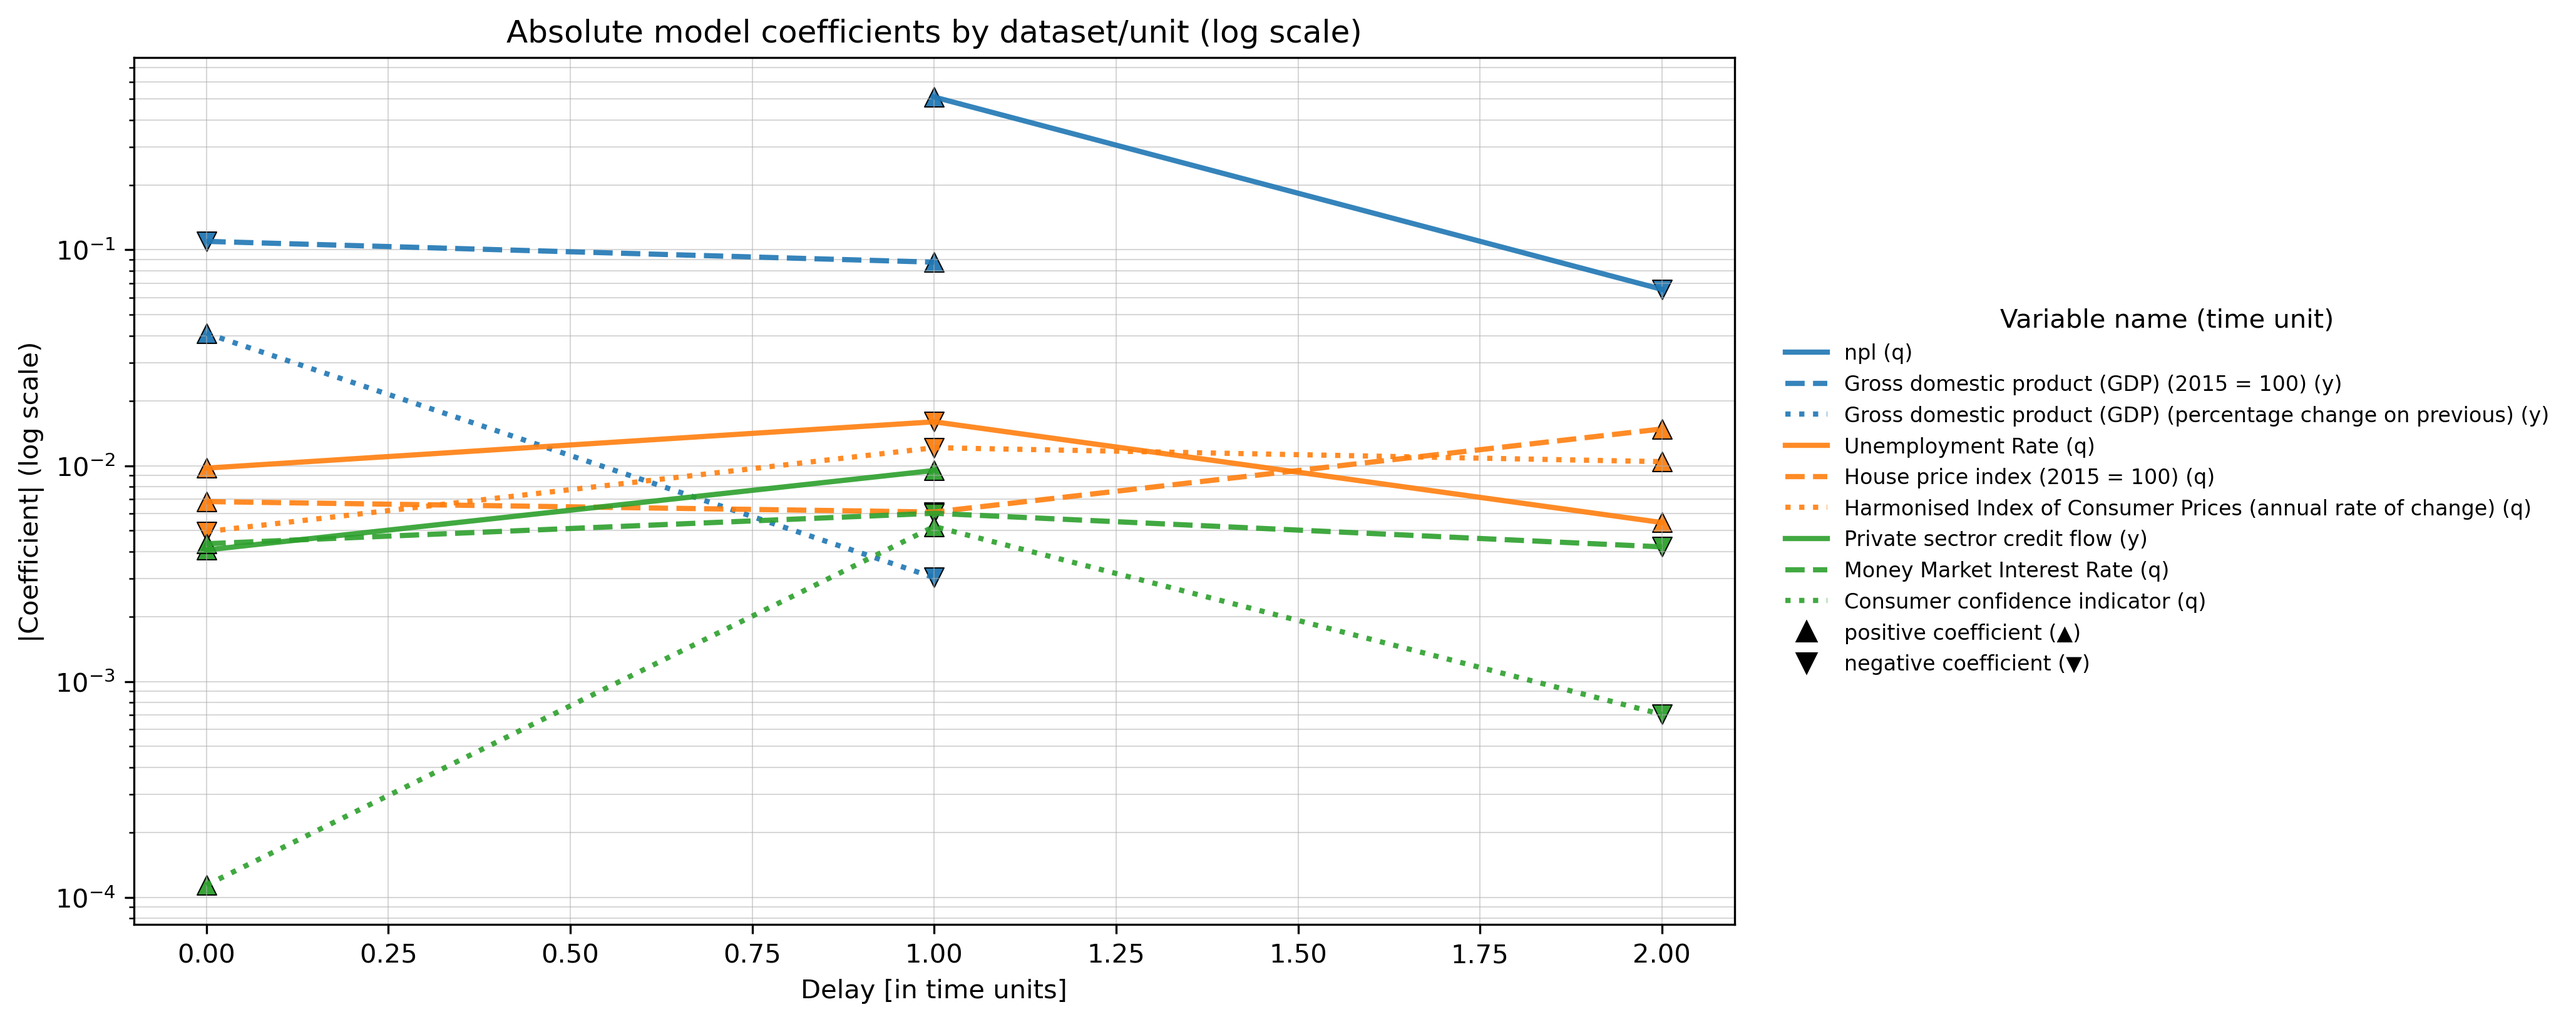
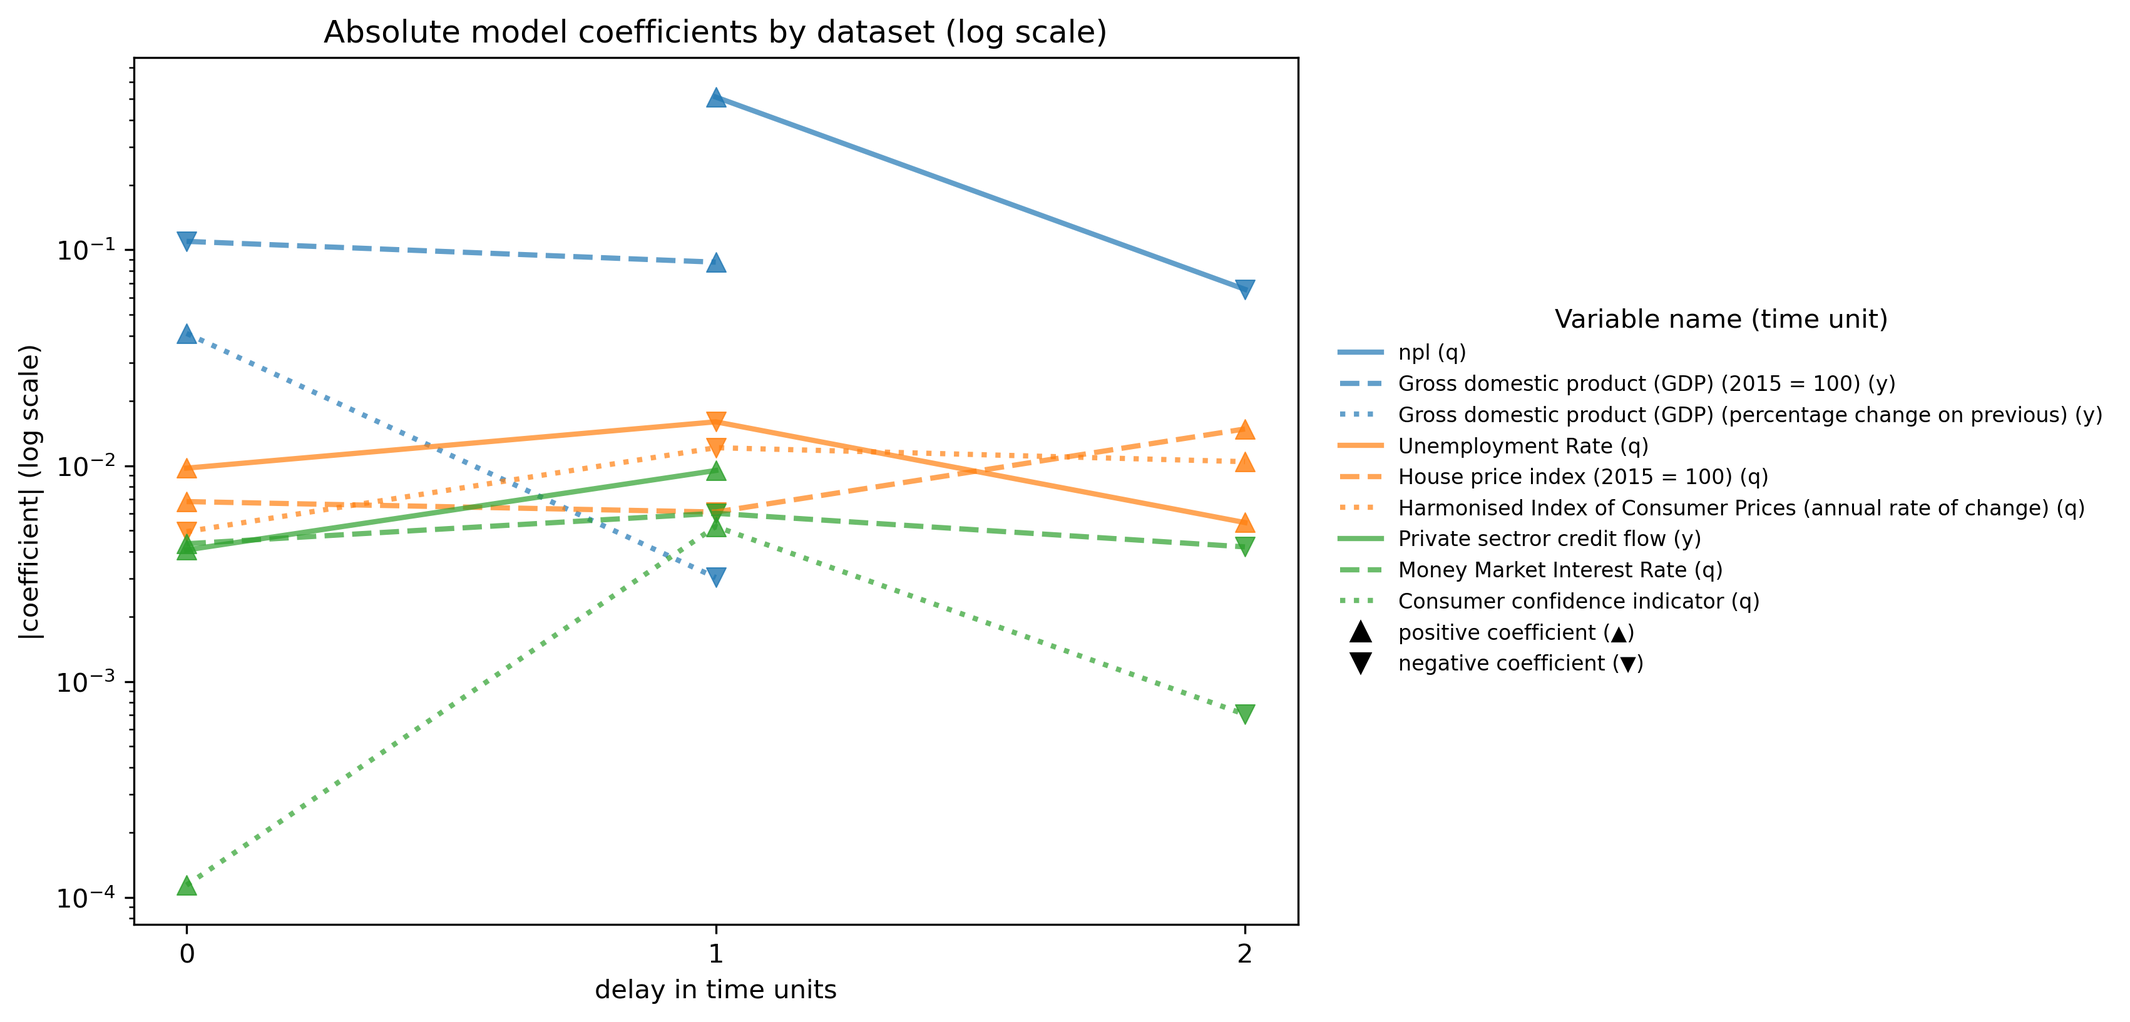
Clean plots

diff --git a/TimeSeriesModelling/TimeSeriesModelling_cleaned.py b/TimeSeriesModelling/TimeSeriesModelling_cleaned.py
@@ -5,6 +5,7 @@ import re
 import os
 import matplotlib.pyplot as plt
 import matplotlib.dates as mdates
+import matplotlib.cm as cm
 from matplotlib.ticker import MaxNLocator
 from matplotlib.lines import Line2D
 from datetime import datetime, date
@@ -22,34 +23,26 @@ except NameError:
     # Fallback for notebooks or interactive mode
     BASE_DIR = os.getcwd()
 
-eurostat_datasets = {'Unemployment Rate' :
+eurostat_datasets = {'Gross domestic product (GDP) (2015 = 100)' :
+{'dataset_code' : 'nama_10_gdp',
+'frequency' : 'a',
+'url' : 'https://ec.europa.eu/eurostat/api/dissemination/sdmx/3.0/data/dataflow/ESTAT/nama_10_gdp/1.0/*.*.*.*?c[freq]=A&c[unit]=CLV_I15&c[na_item]=B1GQ&c[geo]=SI&c[TIME_PERIOD]=2023,2022,2021,2020,2019,2018,2017,2016,2015,2014,2013,2012,2011,2010,2009,2008,2007,2006&compress=false&format=csvdata&formatVersion=2.0&lang=en&labels=name',
+'unit_column_name' : 'Unit of measure',
+'fill_missing' : True},
+
+'Gross domestic product (GDP) (percentage change on previous)' :    
+{'dataset_code' : 'nama_10_gdp',
+'frequency' : 'a',
+'url' : 'https://ec.europa.eu/eurostat/api/dissemination/sdmx/3.0/data/dataflow/ESTAT/nama_10_gdp/1.0/*.*.*.*?c[freq]=A&c[unit]=CLV_PCH_PRE&c[na_item]=B1GQ&c[geo]=SI&c[TIME_PERIOD]=2023,2022,2021,2020,2019,2018,2017,2016,2015,2014,2013,2012,2011,2010,2009,2008,2007,2006&compress=false&format=csvdata&formatVersion=2.0&lang=en&labels=name',
+'unit_column_name' : 'Unit of measure',
+'fill_missing' : True},
+
+ 'Unemployment Rate' :
  {'dataset_code' : 'une_rt_q',
  'frequency' : 'q',
  'url' : 'https://ec.europa.eu/eurostat/api/dissemination/sdmx/3.0/data/dataflow/ESTAT/une_rt_q/1.0/*.*.*.*.*.*?c[freq]=Q&c[s_adj]=SA&c[age]=Y20-64&c[unit]=PC_ACT&c[sex]=T&c[geo]=SI&c[TIME_PERIOD]=ge:2006-Q1+le:2023-Q4&compress=false&format=csvdata&formatVersion=2.0&lang=en&labels=name',
  'unit_column_name' : 'Unit of measure',
  'fill_missing' : False},
-                     
- 'Gross domestic product (GDP) (2015 = 100)' :
- {'dataset_code' : 'nama_10_gdp',
- 'frequency' : 'a',
- 'url' : 'https://ec.europa.eu/eurostat/api/dissemination/sdmx/3.0/data/dataflow/ESTAT/nama_10_gdp/1.0/*.*.*.*?c[freq]=A&c[unit]=CLV_I15&c[na_item]=B1GQ&c[geo]=SI&c[TIME_PERIOD]=2023,2022,2021,2020,2019,2018,2017,2016,2015,2014,2013,2012,2011,2010,2009,2008,2007,2006&compress=false&format=csvdata&formatVersion=2.0&lang=en&labels=name',
- 'unit_column_name' : 'Unit of measure',
- 'fill_missing' : True},
-
- 'Gross domestic product (GDP) (percentage change on previous)' :    
- {'dataset_code' : 'nama_10_gdp',
- 'frequency' : 'a',
- 'url' : 'https://ec.europa.eu/eurostat/api/dissemination/sdmx/3.0/data/dataflow/ESTAT/nama_10_gdp/1.0/*.*.*.*?c[freq]=A&c[unit]=CLV_PCH_PRE&c[na_item]=B1GQ&c[geo]=SI&c[TIME_PERIOD]=2023,2022,2021,2020,2019,2018,2017,2016,2015,2014,2013,2012,2011,2010,2009,2008,2007,2006&compress=false&format=csvdata&formatVersion=2.0&lang=en&labels=name',
- 'unit_column_name' : 'Unit of measure',
- 'fill_missing' : True},
-
- 'Money Market Interest Rate' : 
- {'dataset_code' : 'irt_st_m',
- 'frequency' : 'm',
- 'url' : 'https://ec.europa.eu/eurostat/api/dissemination/sdmx/3.0/data/dataflow/ESTAT/irt_st_m/1.0/*.*.*?c[freq]=M&c[int_rt]=IRT_M12&c[geo]=EA&c[TIME_PERIOD]=2023-12,2023-11,2023-10,2023-09,2023-08,2023-07,2023-06,2023-05,2023-04,2023-03,2023-02,2023-01,2022-12,2022-11,2022-10,2022-09,2022-08,2022-07,2022-06,2022-05,2022-04,2022-03,2022-02,2022-01,2021-12,2021-11,2021-10,2021-09,2021-08,2021-07,2021-06,2021-05,2021-04,2021-03,2021-02,2021-01,2020-12,2020-11,2020-10,2020-09,2020-08,2020-07,2020-06,2020-05,2020-04,2020-03,2020-02,2020-01,2019-12,2019-11,2019-10,2019-09,2019-08,2019-07,2019-06,2019-05,2019-04,2019-03,2019-02,2019-01,2018-12,2018-11,2018-10,2018-09,2018-08,2018-07,2018-06,2018-05,2018-04,2018-03,2018-02,2018-01,2017-12,2017-11,2017-10,2017-09,2017-08,2017-07,2017-06,2017-05,2017-04,2017-03,2017-02,2017-01,2016-12,2016-11,2016-10,2016-09,2016-08,2016-07,2016-06,2016-05,2016-04,2016-03,2016-02,2016-01,2015-12,2015-11,2015-10,2015-09,2015-08,2015-07,2015-06,2015-05,2015-04,2015-03,2015-02,2015-01,2014-12,2014-11,2014-10,2014-09,2014-08,2014-07,2014-06,2014-05,2014-04,2014-03,2014-02,2014-01,2013-12,2013-11,2013-10,2013-09,2013-08,2013-07,2013-06,2013-05,2013-04,2013-03,2013-02,2013-01,2012-12,2012-11,2012-10,2012-09,2012-08,2012-07,2012-06,2012-05,2012-04,2012-03,2012-02,2012-01,2011-12,2011-11,2011-10,2011-09,2011-08,2011-07,2011-06,2011-05,2011-04,2011-03,2011-02,2011-01,2010-12,2010-11,2010-10,2010-09,2010-08,2010-07,2010-06,2010-05,2010-04,2010-03,2010-02,2010-01,2009-12,2009-11,2009-10,2009-09,2009-08,2009-07,2009-06,2009-05,2009-04,2009-03,2009-02,2009-01,2008-12,2008-11,2008-10,2008-09,2008-08,2008-07,2008-06,2008-05,2008-04,2008-03,2008-02,2008-01,2007-12,2007-11,2007-10,2007-09,2007-08,2007-07,2007-06,2007-05,2007-04,2007-03,2007-02,2007-01,2006-12,2006-11,2006-10,2006-09,2006-08,2006-07,2006-06,2006-05,2006-04,2006-03,2006-02,2006-01&compress=false&format=csvdata&formatVersion=2.0&lang=en&labels=name',
- 'unit_column_name' : 'Interest rate',
- 'resample_method' : 'last',
- 'fill_missing' : True},
 
  'House price index (2015 = 100)' : 
  {'dataset_code' : 'prc_hpi_q',
@@ -66,19 +59,28 @@ eurostat_datasets = {'Unemployment Rate' :
  'resample_method' : 'mean',
  'fill_missing' : True},
 
+ 'Private sectror credit flow':
+ {'dataset_code' : 'tipspc10',
+ 'frequency' : 'a',
+ 'url' : 'https://ec.europa.eu/eurostat/api/dissemination/sdmx/3.0/data/dataflow/ESTAT/tipspc10/1.0/*.*.*.*.*.*.*?c[freq]=A&c[co_nco]=CO&c[sector]=S11_S14_S15&c[finpos]=LIAB&c[na_item]=F3_F4&c[unit]=PC_GDP&c[geo]=SI&c[TIME_PERIOD]=2023,2022,2021,2020,2019,2018,2017,2016,2015,2014,2013,2012,2011,2010,2009,2008,2007,2006&compress=false&format=csvdata&formatVersion=2.0&lang=en&labels=name',
+ 'unit_column_name' : 'Unit of measure',
+ 'fill_missing' : True},                 
+ 
+
+ 'Money Market Interest Rate' : 
+ {'dataset_code' : 'irt_st_m',
+ 'frequency' : 'm',
+ 'url' : 'https://ec.europa.eu/eurostat/api/dissemination/sdmx/3.0/data/dataflow/ESTAT/irt_st_m/1.0/*.*.*?c[freq]=M&c[int_rt]=IRT_M12&c[geo]=EA&c[TIME_PERIOD]=2023-12,2023-11,2023-10,2023-09,2023-08,2023-07,2023-06,2023-05,2023-04,2023-03,2023-02,2023-01,2022-12,2022-11,2022-10,2022-09,2022-08,2022-07,2022-06,2022-05,2022-04,2022-03,2022-02,2022-01,2021-12,2021-11,2021-10,2021-09,2021-08,2021-07,2021-06,2021-05,2021-04,2021-03,2021-02,2021-01,2020-12,2020-11,2020-10,2020-09,2020-08,2020-07,2020-06,2020-05,2020-04,2020-03,2020-02,2020-01,2019-12,2019-11,2019-10,2019-09,2019-08,2019-07,2019-06,2019-05,2019-04,2019-03,2019-02,2019-01,2018-12,2018-11,2018-10,2018-09,2018-08,2018-07,2018-06,2018-05,2018-04,2018-03,2018-02,2018-01,2017-12,2017-11,2017-10,2017-09,2017-08,2017-07,2017-06,2017-05,2017-04,2017-03,2017-02,2017-01,2016-12,2016-11,2016-10,2016-09,2016-08,2016-07,2016-06,2016-05,2016-04,2016-03,2016-02,2016-01,2015-12,2015-11,2015-10,2015-09,2015-08,2015-07,2015-06,2015-05,2015-04,2015-03,2015-02,2015-01,2014-12,2014-11,2014-10,2014-09,2014-08,2014-07,2014-06,2014-05,2014-04,2014-03,2014-02,2014-01,2013-12,2013-11,2013-10,2013-09,2013-08,2013-07,2013-06,2013-05,2013-04,2013-03,2013-02,2013-01,2012-12,2012-11,2012-10,2012-09,2012-08,2012-07,2012-06,2012-05,2012-04,2012-03,2012-02,2012-01,2011-12,2011-11,2011-10,2011-09,2011-08,2011-07,2011-06,2011-05,2011-04,2011-03,2011-02,2011-01,2010-12,2010-11,2010-10,2010-09,2010-08,2010-07,2010-06,2010-05,2010-04,2010-03,2010-02,2010-01,2009-12,2009-11,2009-10,2009-09,2009-08,2009-07,2009-06,2009-05,2009-04,2009-03,2009-02,2009-01,2008-12,2008-11,2008-10,2008-09,2008-08,2008-07,2008-06,2008-05,2008-04,2008-03,2008-02,2008-01,2007-12,2007-11,2007-10,2007-09,2007-08,2007-07,2007-06,2007-05,2007-04,2007-03,2007-02,2007-01,2006-12,2006-11,2006-10,2006-09,2006-08,2006-07,2006-06,2006-05,2006-04,2006-03,2006-02,2006-01&compress=false&format=csvdata&formatVersion=2.0&lang=en&labels=name',
+ 'unit_column_name' : 'Interest rate',
+ 'resample_method' : 'last',
+ 'fill_missing' : True},
+
  'Consumer confidence indicator':
  {'dataset_code' : 'ei_bsco_m',
  'frequency' : 'm',
  'url' : 'https://ec.europa.eu/eurostat/api/dissemination/sdmx/3.0/data/dataflow/ESTAT/ei_bsco_m/1.0/*.*.*.*.*?c[freq]=M&c[indic]=BS-CSMCI&c[s_adj]=SA&c[unit]=BAL&c[geo]=SI&c[TIME_PERIOD]=2023-12,2023-11,2023-10,2023-09,2023-08,2023-07,2023-06,2023-05,2023-04,2023-03,2023-02,2023-01,2022-12,2022-11,2022-10,2022-09,2022-08,2022-07,2022-06,2022-05,2022-04,2022-03,2022-02,2022-01,2021-12,2021-11,2021-10,2021-09,2021-08,2021-07,2021-06,2021-05,2021-04,2021-03,2021-02,2021-01,2020-12,2020-11,2020-10,2020-09,2020-08,2020-07,2020-06,2020-05,2020-04,2020-03,2020-02,2020-01,2019-12,2019-11,2019-10,2019-09,2019-08,2019-07,2019-06,2019-05,2019-04,2019-03,2019-02,2019-01,2018-12,2018-11,2018-10,2018-09,2018-08,2018-07,2018-06,2018-05,2018-04,2018-03,2018-02,2018-01,2017-12,2017-11,2017-10,2017-09,2017-08,2017-07,2017-06,2017-05,2017-04,2017-03,2017-02,2017-01,2016-12,2016-11,2016-10,2016-09,2016-08,2016-07,2016-06,2016-05,2016-04,2016-03,2016-02,2016-01,2015-12,2015-11,2015-10,2015-09,2015-08,2015-07,2015-06,2015-05,2015-04,2015-03,2015-02,2015-01,2014-12,2014-11,2014-10,2014-09,2014-08,2014-07,2014-06,2014-05,2014-04,2014-03,2014-02,2014-01,2013-12,2013-11,2013-10,2013-09,2013-08,2013-07,2013-06,2013-05,2013-04,2013-03,2013-02,2013-01,2012-12,2012-11,2012-10,2012-09,2012-08,2012-07,2012-06,2012-05,2012-04,2012-03,2012-02,2012-01,2011-12,2011-11,2011-10,2011-09,2011-08,2011-07,2011-06,2011-05,2011-04,2011-03,2011-02,2011-01,2010-12,2010-11,2010-10,2010-09,2010-08,2010-07,2010-06,2010-05,2010-04,2010-03,2010-02,2010-01,2009-12,2009-11,2009-10,2009-09,2009-08,2009-07,2009-06,2009-05,2009-04,2009-03,2009-02,2009-01,2008-12,2008-11,2008-10,2008-09,2008-08,2008-07,2008-06,2008-05,2008-04,2008-03,2008-02,2008-01,2007-12,2007-11,2007-10,2007-09,2007-08,2007-07,2007-06,2007-05,2007-04,2007-03,2007-02,2007-01,2006-12,2006-11,2006-10,2006-09,2006-08,2006-07,2006-06,2006-05,2006-04,2006-03,2006-02,2006-01&compress=false&format=csvdata&formatVersion=2.0&lang=en&labels=name',
  'unit_column_name' : 'Unit of measure',
  'resample_method' : 'mean',
- 'fill_missing' : True},
-
- 'Private sectror credit flow':
- {'dataset_code' : 'tipspc10',
- 'frequency' : 'a',
- 'url' : 'https://ec.europa.eu/eurostat/api/dissemination/sdmx/3.0/data/dataflow/ESTAT/tipspc10/1.0/*.*.*.*.*.*.*?c[freq]=A&c[co_nco]=CO&c[sector]=S11_S14_S15&c[finpos]=LIAB&c[na_item]=F3_F4&c[unit]=PC_GDP&c[geo]=SI&c[TIME_PERIOD]=2023,2022,2021,2020,2019,2018,2017,2016,2015,2014,2013,2012,2011,2010,2009,2008,2007,2006&compress=false&format=csvdata&formatVersion=2.0&lang=en&labels=name',
- 'unit_column_name' : 'Unit of measure',
  'fill_missing' : True}
                     }
 
@@ -759,8 +761,9 @@ def plot_nlb_and_eurostat_data(
     except Exception:
         idx = data.index.to_list()
     ax.plot(idx, data['npl'], linewidth=3.5, color='#230078')
-    ax.set_title('NLB NPL', pad=8)
-    ax.set_xlabel('Date'); ax.set_ylabel('NPL')
+    ax.set_title('NLB NPL', color='#230078', pad=8, fontweight='bold')
+    # ax.set_xlabel('Date'); 
+    # ax.set_ylabel('NPL')
     if hasattr(idx, '__len__') and len(idx) > 1:
         loc, fmt = _year_locator_for_span(idx)
         ax.xaxis.set_major_locator(loc); ax.xaxis.set_major_formatter(fmt)
@@ -796,7 +799,8 @@ def plot_nlb_and_eurostat_data(
 
         ax.plot(x_vals, values_f.values, linewidth=2.2, color='black')
         ax.set_title(key, pad=8)
-        ax.set_xlabel('Time'); ax.set_ylabel(ylab)
+        # ax.set_xlabel('Time'); 
+        # ax.set_ylabel(ylab)
 
         # Less-dense integer years
         loc, fmt = _year_locator_for_span(x_vals)
@@ -875,11 +879,11 @@ def plot_npl_predictions(data_train, data_test_1, data_test_2, model):
         zorder=4
     )
     ax.set_title(
-        f"Training and Test 1 Data with Predictions (MSE: {mse_test_1:.4f}, R²: {r2_test_1:.4f})"
+        f"Training and Test 1 data with predictions (MSE: {mse_test_1:.4f}, R²: {r2_test_1:.4f})"
     )
-    ax.set_ylabel("NPL Value")
+    ax.set_ylabel("NPL")
     ax.legend()
-    ax.grid(True, linestyle='--', alpha=0.5)
+    # ax.grid(True, linestyle='--', alpha=0.5)
     ax.xaxis.set_major_locator(mdates.YearLocator())
     ax.xaxis.set_major_formatter(mdates.DateFormatter('%Y'))
 
@@ -893,6 +897,15 @@ def plot_npl_predictions(data_train, data_test_1, data_test_2, model):
         label='test_2 ground truth',
         zorder=3
     )
+    ax2.plot(
+    data_test_2.index,
+    data_test_2['npl'],
+    color='green',
+    linewidth=2,
+    alpha=0.7,
+    label='_nolegend_',  # so it doesn’t add a duplicate legend entry
+    zorder=2
+    )
     # Plot predicted values for second test split
     ax2.scatter(
         data_test_2.index,
@@ -904,14 +917,14 @@ def plot_npl_predictions(data_train, data_test_1, data_test_2, model):
         zorder=4
     )
     ax2.set_title(
-        f"Test 2 Data with Predictions (MSE: {mse_test_2:.4f}, R²: {r2_test_2:.4f})"
+        f"Test 2 data with predictions (MSE: {mse_test_2:.4f}, R²: {r2_test_2:.4f})"
     )
-    ax2.set_ylabel("NPL Value")
+    ax2.set_ylabel("NPL")
     ax2.legend()
-    ax2.grid(True, linestyle='--', alpha=0.5)
+    # ax2.grid(True, linestyle='--', alpha=0.5)
     ax2.xaxis.set_major_locator(mdates.YearLocator())
     ax2.xaxis.set_major_formatter(mdates.DateFormatter('%Y'))
-    ax2.set_xlabel("Date")
+    ax2.set_xlabel("date")
 
     # Finalize layout and save/show the plot
     plt.tight_layout()
@@ -928,7 +941,7 @@ def plot_npl_predictions(data_train, data_test_1, data_test_2, model):
 def plot_abs_coeff_series_by_dataset(
     model: LinearRegression,
     feature_names: Iterable[str],
-    title: Optional[str] = "Absolute model coefficients by dataset/unit (log scale)",
+    title: Optional[str] = "Absolute model coefficients by dataset (log scale)",
     ax: Optional[plt.Axes] = None,
 ) -> plt.Axes:
     """
@@ -968,7 +981,8 @@ def plot_abs_coeff_series_by_dataset(
     series.sort(key=lambda s: s["max_abs"], reverse=True)
 
     if ax is None:
-        fig, ax = plt.subplots(figsize=(11, 6))
+        fig, ax = plt.subplots(figsize=(8, 6))
+           
 
     linestyles = ["-", "--", ":"]
     colors = [d.get("color") for d in plt.rcParams["axes.prop_cycle"]]
@@ -983,7 +997,7 @@ def plot_abs_coeff_series_by_dataset(
         # 1) line for abs values (legend label here, once)
         ax.plot(
             s["x"], s["y"],
-            linestyle=ls, color=color, linewidth=2, alpha=0.9, label=label,
+            linestyle=ls, color=color, linewidth=2, alpha=0.7, label=label,
         )
 
         # 2) sign markers (no legend entries)
@@ -995,24 +1009,25 @@ def plot_abs_coeff_series_by_dataset(
         if pos_x:
             ax.scatter(
                 pos_x, pos_y,
-                marker="^", color=color, edgecolor="black", linewidth=0.5,
-                s=55, alpha=0.95, label="_nolegend_",
+                marker="^", color=color, linewidth=0.5,
+                s=55, alpha=0.8, label="_nolegend_",
             )
         if neg_x:
             ax.scatter(
                 neg_x, neg_y,
-                marker="v", color=color, edgecolor="black", linewidth=0.5,
-                s=55, alpha=0.95, label="_nolegend_",
+                marker="v", color=color, linewidth=0.5,
+                s=55, alpha=0.8, label="_nolegend_",
             )
 
     # Axes styling
     ax.set_yscale("log")
-    ax.set_xlabel("Delay [in time units]")
-    ax.set_ylabel("|Coefficient| (log scale)")
+    ax.set_xlabel("delay in time units")
+    ax.set_ylabel("|coefficient| (log scale)")
     if title:
         ax.set_title(title)
 
-    ax.grid(True, which="both", linewidth=0.5, alpha=0.5)
+    # ax.grid(axis="y", which="both", color="gray", linewidth=0.6, alpha=0.4)
+    ax.xaxis.set_major_locator(MaxNLocator(integer=True))
 
     # Build legend: series lines first, then black triangle sign key at the bottom
     handles, labels = ax.get_legend_handles_labels()
